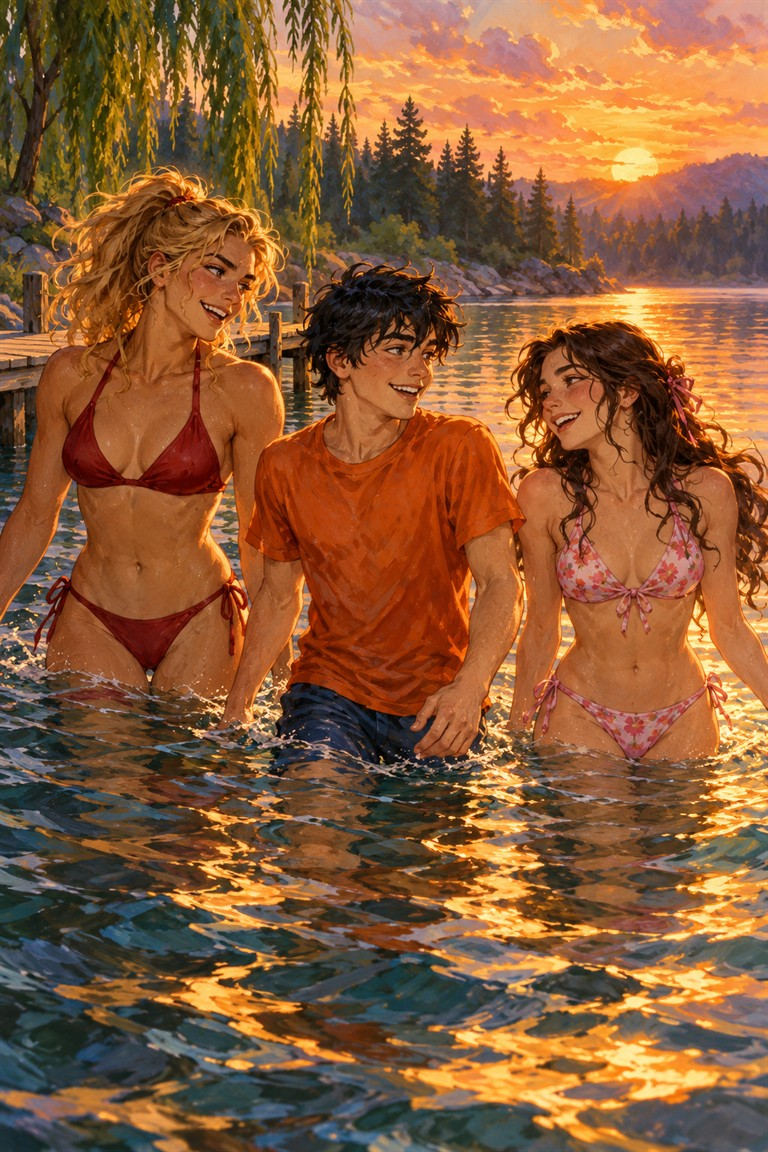
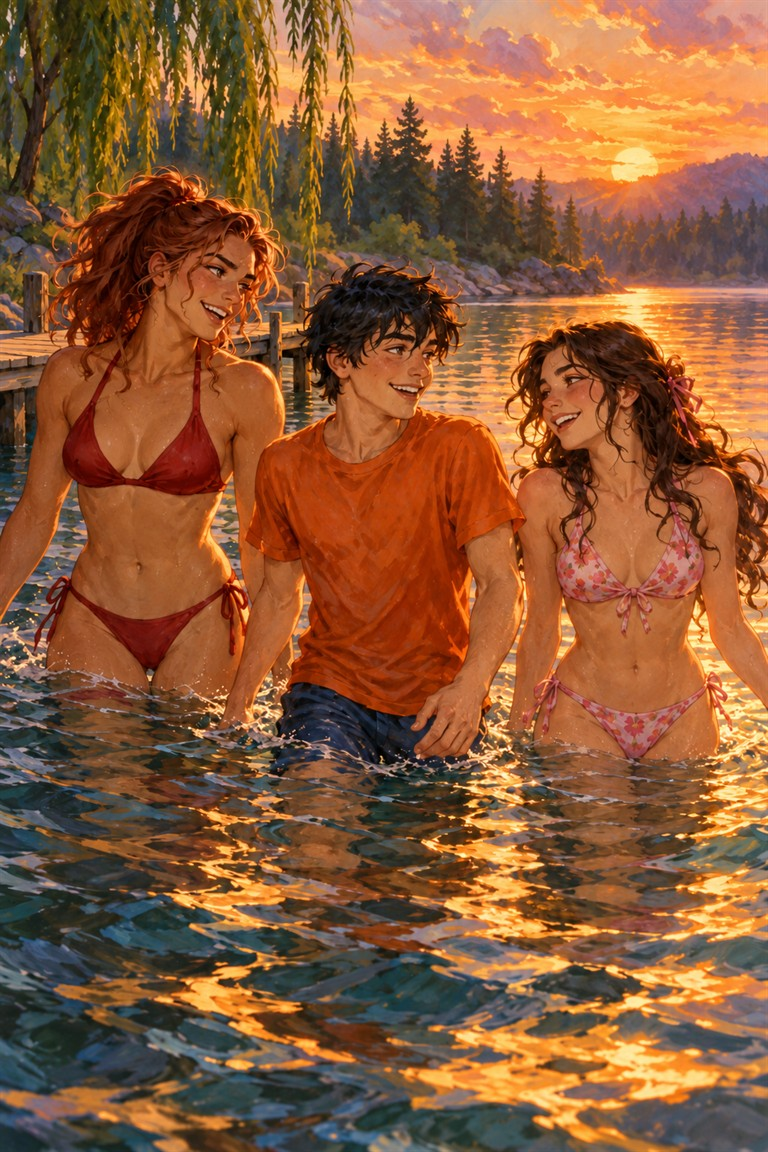
Add chapter illustrations 156–160

diff --git a/illustrations/README.md b/illustrations/README.md
@@ -2,7 +2,7 @@
 
 One chapter-specific image for each numbered chapter, based on that chapter's scenes and continuity. The images are kept separate from the manuscript text and do not affect chapter word counts.
 
-**Progress: 155 of 218 illustrations complete.** The series is in progress and follows chapter order.
+**Progress: 160 of 218 illustrations complete.** The series is in progress and follows chapter order.
 
 ## 001. The Weight of Salt and Sky
 
@@ -937,3 +937,34 @@ One chapter-specific image for each numbered chapter, based on that chapter's sc
 [Source chapter](../chapters/155-thirty-nine-marks.md)
 
 ![The five siblings share a north beach picnic over Annabeth's sketch of thirty-nine marks; the girls wear bikinis.](155-thirty-nine-marks.jpg)
+
+
+## 156. What the Hands Know
+
+[Source chapter](../chapters/156-what-the-hands-know.md)
+
+![Clarisse in a red bikini fits the canoe patch while Silena in a pink floral bikini applies warm glue and Percy watches.](156-what-the-hands-know.jpg)
+
+## 157. What We Set Out Before
+
+[Source chapter](../chapters/157-what-we-set-out-before.md)
+
+![Clarisse folds Tyson's blue hoodie onto the visitor bunk while Silena prepares the warm towel, spare shirt, and quilt.](157-what-we-set-out-before.jpg)
+
+## 158. What Brothers Bring
+
+[Source chapter](../chapters/158-what-brothers-bring.md)
+
+![Tyson arrives on Brine as Percy welcomes him and Clarisse, Silena, and Annabeth wait in their red, pink floral, and yellow bikinis.](158-what-brothers-bring.jpg)
+
+## 159. The Middle of the Visit
+
+[Source chapter](../chapters/159-the-middle-of-the-visit.md)
+
+![Tyson teaches young campers to bump a volleyball while Percy plays and Clarisse, Silena, and Annabeth watch.](159-the-middle-of-the-visit.jpg)
+
+## 160. What the Note Said
+
+[Source chapter](../chapters/160-what-the-note-said.md)
+
+![Percy reads Annabeth's folded note on the Cabin Three pool deck in the quiet before dawn.](160-what-the-note-said.jpg)
